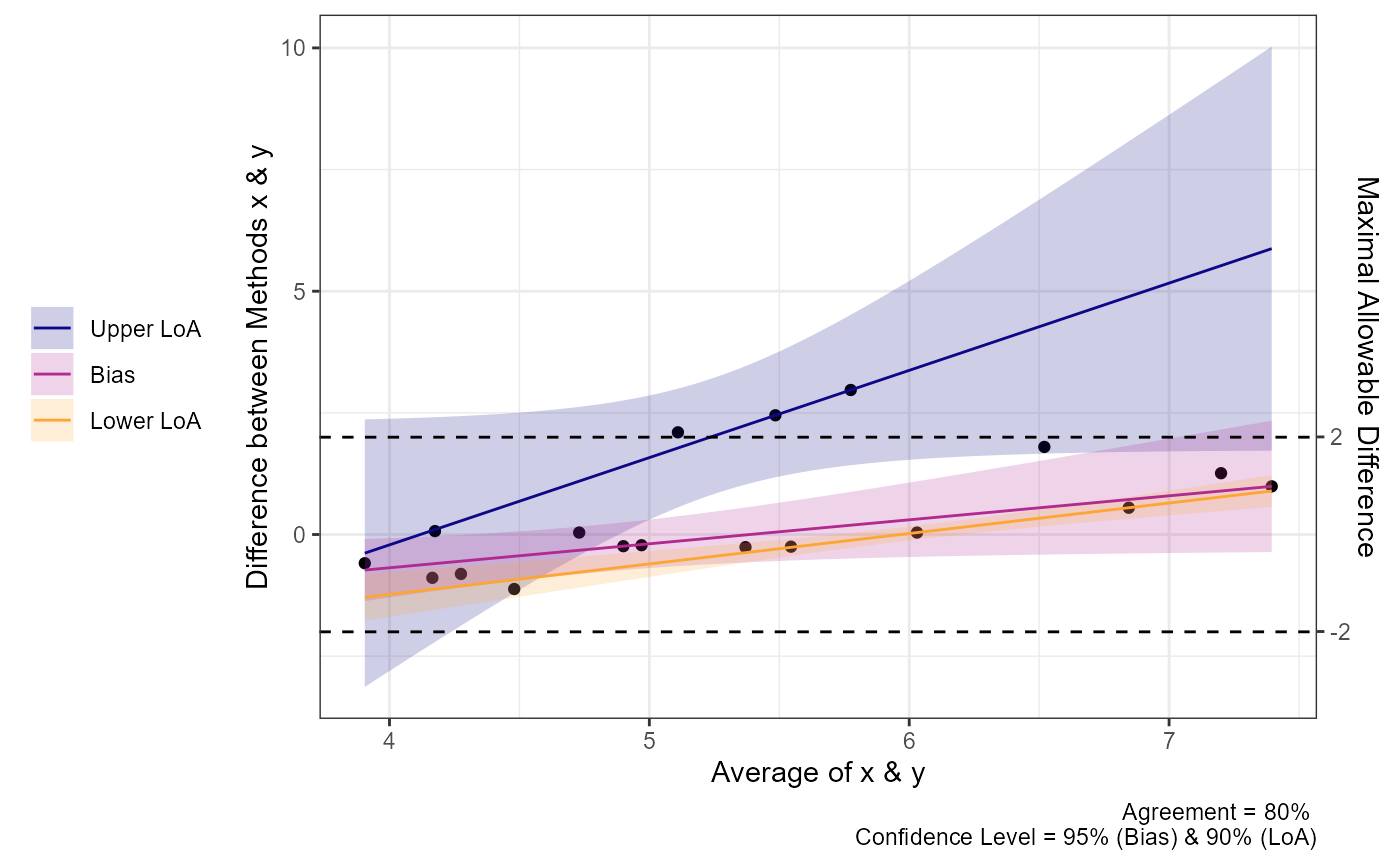
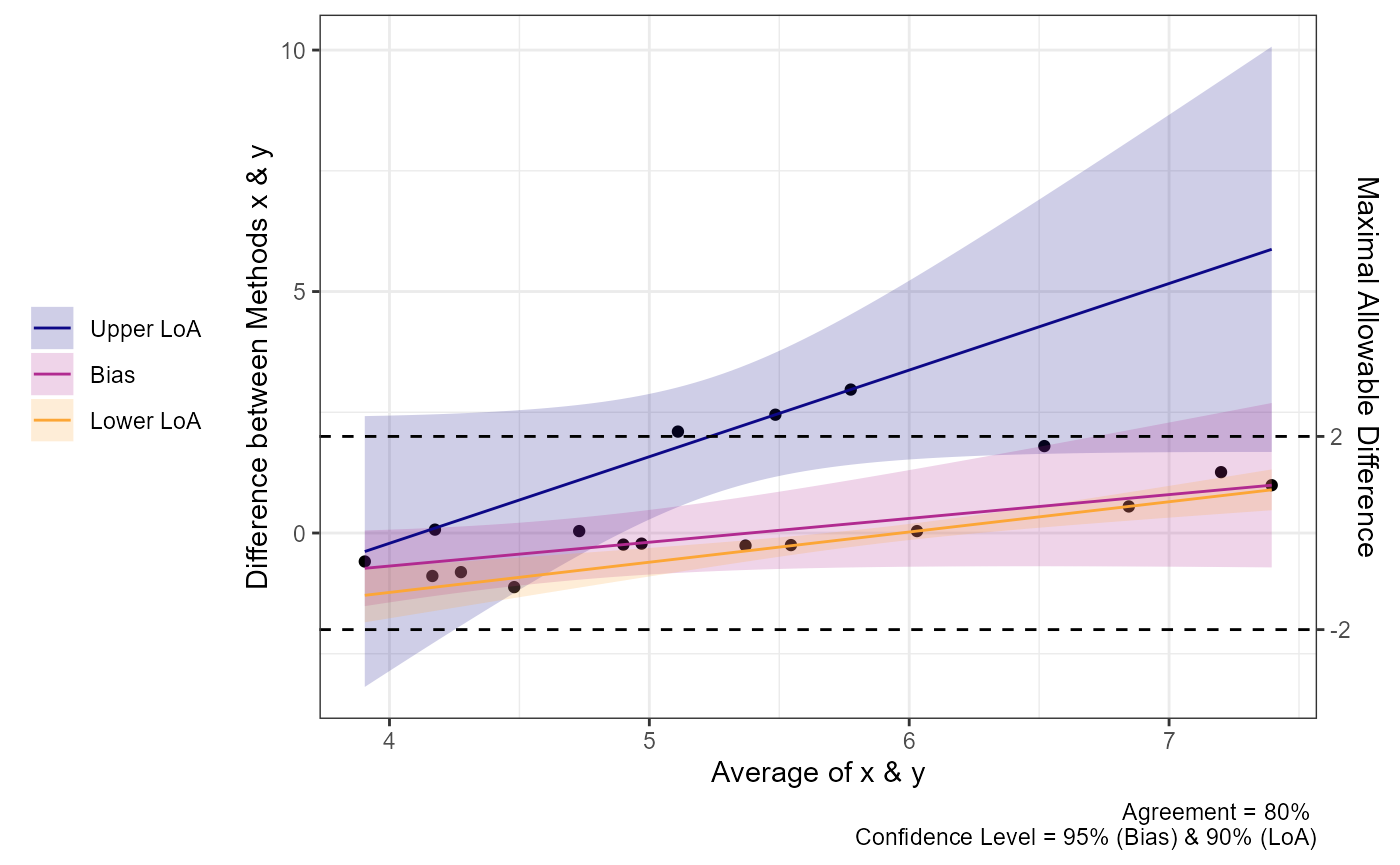
Updated documentation
Just need to update tests

diff --git a/docs/articles/reanalysis.html b/docs/articles/reanalysis.html
@@ -147,7 +147,8 @@ words, if we were to draw a line of identity on a graph and plot two
 measurements (X &amp; Y), the closer those points are to the line of
 identity the higher the CCC (and vice versa).</p>
 <div class="sourceCode" id="cb2"><pre class="downlit sourceCode r">
-<code class="sourceCode R"><span><span class="fu"><a href="https://ggplot2.tidyverse.org/reference/qplot.html" class="external-link">qplot</a></span><span class="op">(</span><span class="fl">1</span>,<span class="fl">1</span><span class="op">)</span> <span class="op">+</span> <span class="fu"><a href="https://ggplot2.tidyverse.org/reference/geom_abline.html" class="external-link">geom_abline</a></span><span class="op">(</span>intercept <span class="op">=</span> <span class="fl">0</span>, slope <span class="op">=</span> <span class="fl">1</span><span class="op">)</span></span></code></pre></div>
+<code class="sourceCode R"><span><span class="fu"><a href="https://ggplot2.tidyverse.org/reference/qplot.html" class="external-link">qplot</a></span><span class="op">(</span><span class="fl">1</span>,<span class="fl">1</span><span class="op">)</span> <span class="op">+</span> <span class="fu"><a href="https://ggplot2.tidyverse.org/reference/geom_abline.html" class="external-link">geom_abline</a></span><span class="op">(</span>intercept <span class="op">=</span> <span class="fl">0</span>, slope <span class="op">=</span> <span class="fl">1</span><span class="op">)</span></span>
+<span><span class="co">#&gt; Warning: `qplot()` was deprecated in ggplot2 3.4.0.</span></span></code></pre></div>
 <div class="figure">
 <img src="reanalysis_files/figure-html/unnamed-chunk-2-1.png" alt="Example of the Line of Identity" width="700"><p class="caption">
 Example of the Line of Identity
@@ -165,6 +166,8 @@ plot we can see there is clear bias in the raw post exercise values
 (higher in the PM), but even when “correcting for baseline differences”
 by calculating the differences scores we can see a higher degree of
 disagreement between the two conditions.</p>
+<pre><code><span><span class="co">#&gt; Warning: Using `size` aesthetic for lines was deprecated in ggplot2 3.4.0.</span></span>
+<span><span class="co">#&gt; <span style="color: #00BBBB;">ℹ</span> Please use `linewidth` instead.</span></span></code></pre>
 <div class="figure">
 <img src="reanalysis_files/figure-html/pltsrec-1.png" alt="Concordance Plots of Rectal Temperature" width="816"><p class="caption">
 Concordance Plots of Rectal Temperature
@@ -180,7 +183,7 @@ Concordance Plots of Rectal Temperature
 <div class="section level2">
 <h2 id="esophageal-temperature">Esophageal Temperature<a class="anchor" aria-label="anchor" href="#esophageal-temperature"></a>
 </h2>
-<pre><code><span><span class="co">#&gt; Warning: Removed 3 row(s) containing missing values (geom_path).</span></span></code></pre>
+<pre><code><span><span class="co">#&gt; Warning: Removed 3 rows containing missing values (`geom_line()`).</span></span></code></pre>
 <div class="figure">
 <img src="reanalysis_files/figure-html/pltseso-1.png" alt="Concordance Plots of Esophageal Temperature" width="816"><p class="caption">
 Concordance Plots of Esophageal Temperature
@@ -217,7 +220,7 @@ specify the specifics of the conditions for how the limits are
 calculated. For this specific analysis I decided to calculate 95% limits
 of agreement with 95% confidence intervals, and I will use percentile
 bootstrap confidence intervals.</p>
-<div class="sourceCode" id="cb4"><pre class="downlit sourceCode r">
+<div class="sourceCode" id="cb5"><pre class="downlit sourceCode r">
 <code class="sourceCode R"><span><span class="va">rec.post_loa</span> <span class="op">=</span> <span class="fu">SimplyAgree</span><span class="fu">::</span><span class="fu"><a href="../reference/loa_lme.html">loa_lme</a></span><span class="op">(</span>diff <span class="op">=</span> <span class="st">"diff"</span>,</span>
 <span>                                    condition <span class="op">=</span> <span class="st">"trial_condition"</span>,</span>
 <span>                                    id <span class="op">=</span> <span class="st">"id"</span>,</span>
@@ -230,7 +233,7 @@ bootstrap confidence intervals.</p>
 <p>When we create a table of the limits of agreement (LoA), at least for
 Trec post exercise, are providing the same conclusion (poor
 agreement).</p>
-<div class="sourceCode" id="cb5"><pre class="downlit sourceCode r">
+<div class="sourceCode" id="cb6"><pre class="downlit sourceCode r">
 <code class="sourceCode R"><span><span class="fu">knitr</span><span class="fu">::</span><span class="fu"><a href="https://rdrr.io/pkg/knitr/man/kable.html" class="external-link">kable</a></span><span class="op">(</span><span class="va">rec.post_loa</span><span class="op">$</span><span class="va">loa</span>,</span>
 <span>             caption <span class="op">=</span> <span class="st">"LoA: Trec Post Exercise"</span><span class="op">)</span></span></code></pre></div>
 <table class="table">
@@ -339,7 +342,7 @@ agreement).</p>
 </table>
 <p>Furthermore, we can visualize the results with a typical Bland-Altman
 plot of the LoA.</p>
-<div class="sourceCode" id="cb6"><pre class="downlit sourceCode r">
+<div class="sourceCode" id="cb7"><pre class="downlit sourceCode r">
 <code class="sourceCode R"><span><span class="fu"><a href="https://rdrr.io/r/graphics/plot.default.html" class="external-link">plot</a></span><span class="op">(</span><span class="va">rec.post_loa</span><span class="op">)</span></span></code></pre></div>
 <div class="figure">
 <img src="reanalysis_files/figure-html/unnamed-chunk-6-1.png" alt="Limits of Agreement for Trec Post Exercise" width="672"><p class="caption">
@@ -350,7 +353,7 @@ Limits of Agreement for Trec Post Exercise
 much closer agreement (maybe even acceptable agreement) when we look at
 LoA. However, we cannot say that the average difference would be less
 than 0.25 which may not be acceptable for some researchers.</p>
-<div class="sourceCode" id="cb7"><pre class="downlit sourceCode r">
+<div class="sourceCode" id="cb8"><pre class="downlit sourceCode r">
 <code class="sourceCode R"><span><span class="fu">knitr</span><span class="fu">::</span><span class="fu"><a href="https://rdrr.io/pkg/knitr/man/kable.html" class="external-link">kable</a></span><span class="op">(</span><span class="va">rec.delta_loa</span><span class="op">$</span><span class="va">loa</span>,</span>
 <span>             caption <span class="op">=</span> <span class="st">"LoA: Delta Trec"</span><span class="op">)</span></span></code></pre></div>
 <table class="table">
@@ -457,7 +460,7 @@ than 0.25 which may not be acceptable for some researchers.</p>
 </tr>
 </tbody>
 </table>
-<div class="sourceCode" id="cb8"><pre class="downlit sourceCode r">
+<div class="sourceCode" id="cb9"><pre class="downlit sourceCode r">
 <code class="sourceCode R"><span><span class="fu"><a href="https://rdrr.io/r/graphics/plot.default.html" class="external-link">plot</a></span><span class="op">(</span><span class="va">rec.delta_loa</span><span class="op">)</span></span></code></pre></div>
 <div class="figure">
 <img src="reanalysis_files/figure-html/unnamed-chunk-8-1.png" alt="Limits of Agreement for Delta Trec" width="672"><p class="caption">
@@ -472,7 +475,7 @@ Limits of Agreement for Delta Trec
 results are fairly similar, and while there is better agreement on the
 delta (change scores), it is still fairly difficult to determine that
 there is “good” agreement between the AM and PM measurements.</p>
-<div class="sourceCode" id="cb9"><pre class="downlit sourceCode r">
+<div class="sourceCode" id="cb10"><pre class="downlit sourceCode r">
 <code class="sourceCode R"><span><span class="va">eso.post_loa</span> <span class="op">=</span> <span class="fu">SimplyAgree</span><span class="fu">::</span><span class="fu"><a href="../reference/loa_mixed.html">loa_mixed</a></span><span class="op">(</span>diff <span class="op">=</span> <span class="st">"diff"</span>,</span>
 <span>                                     condition <span class="op">=</span> <span class="st">"trial_condition"</span>,</span>
 <span>                                     id <span class="op">=</span> <span class="st">"id"</span>,</span>
@@ -481,7 +484,7 @@ there is “good” agreement between the AM and PM measurements.</p>
 <span>                                     agree.level <span class="op">=</span> <span class="fl">.95</span>,</span>
 <span>                                     replicates <span class="op">=</span> <span class="fl">199</span>,</span>
 <span>                                     type <span class="op">=</span> <span class="st">"bca"</span><span class="op">)</span></span></code></pre></div>
-<div class="sourceCode" id="cb10"><pre class="downlit sourceCode r">
+<div class="sourceCode" id="cb11"><pre class="downlit sourceCode r">
 <code class="sourceCode R"><span><span class="fu">knitr</span><span class="fu">::</span><span class="fu"><a href="https://rdrr.io/pkg/knitr/man/kable.html" class="external-link">kable</a></span><span class="op">(</span><span class="va">eso.post_loa</span><span class="op">$</span><span class="va">loa</span>,</span>
 <span>             caption <span class="op">=</span> <span class="st">"LoA: Teso Post Exercise"</span><span class="op">)</span></span></code></pre></div>
 <table class="table">
@@ -588,14 +591,14 @@ there is “good” agreement between the AM and PM measurements.</p>
 </tr>
 </tbody>
 </table>
-<div class="sourceCode" id="cb11"><pre class="downlit sourceCode r">
+<div class="sourceCode" id="cb12"><pre class="downlit sourceCode r">
 <code class="sourceCode R"><span><span class="fu"><a href="https://rdrr.io/r/graphics/plot.default.html" class="external-link">plot</a></span><span class="op">(</span><span class="va">eso.post_loa</span><span class="op">)</span></span></code></pre></div>
 <div class="figure">
 <img src="reanalysis_files/figure-html/unnamed-chunk-11-1.png" alt="Limits of Agreement for Teso Post Exercise" width="672"><p class="caption">
 Limits of Agreement for Teso Post Exercise
 </p>
 </div>
-<div class="sourceCode" id="cb12"><pre class="downlit sourceCode r">
+<div class="sourceCode" id="cb13"><pre class="downlit sourceCode r">
 <code class="sourceCode R"><span><span class="fu">knitr</span><span class="fu">::</span><span class="fu"><a href="https://rdrr.io/pkg/knitr/man/kable.html" class="external-link">kable</a></span><span class="op">(</span><span class="va">eso.delta_loa</span><span class="op">$</span><span class="va">loa</span>,</span>
 <span>             caption <span class="op">=</span> <span class="st">"LoA: Delta Teso"</span><span class="op">)</span></span></code></pre></div>
 <table class="table">
@@ -702,7 +705,7 @@ Limits of Agreement for Teso Post Exercise
 </tr>
 </tbody>
 </table>
-<div class="sourceCode" id="cb13"><pre class="downlit sourceCode r">
+<div class="sourceCode" id="cb14"><pre class="downlit sourceCode r">
 <code class="sourceCode R"><span><span class="fu"><a href="https://rdrr.io/r/graphics/plot.default.html" class="external-link">plot</a></span><span class="op">(</span><span class="va">eso.delta_loa</span><span class="op">)</span></span></code></pre></div>
 <div class="figure">
 <img src="reanalysis_files/figure-html/unnamed-chunk-13-1.png" alt="Limits of Agreement for Delta Teso" width="672"><p class="caption">

diff --git a/docs/reference/reli_stats.html b/docs/reference/reli_stats.html
@@ -76,7 +76,7 @@
 <span>  cv_calc <span class="op">=</span> <span class="fu"><a href="https://rdrr.io/r/base/c.html" class="external-link">c</a></span><span class="op">(</span><span class="st">"MSE"</span>, <span class="st">"residuals"</span>, <span class="st">"SEM"</span><span class="op">)</span>,</span>
 <span>  conf.level <span class="op">=</span> <span class="fl">0.95</span>,</span>
 <span>  other_ci <span class="op">=</span> <span class="cn">FALSE</span>,</span>
-<span>  type <span class="op">=</span> <span class="fu"><a href="https://rdrr.io/r/base/c.html" class="external-link">c</a></span><span class="op">(</span><span class="st">"perc"</span>, <span class="st">"norm"</span>, <span class="st">"basic"</span><span class="op">)</span>,</span>
+<span>  type <span class="op">=</span> <span class="fu"><a href="https://rdrr.io/r/base/c.html" class="external-link">c</a></span><span class="op">(</span><span class="st">"chisq"</span>, <span class="st">"perc"</span>, <span class="st">"norm"</span>, <span class="st">"basic"</span><span class="op">)</span>,</span>
 <span>  replicates <span class="op">=</span> <span class="fl">1999</span></span>
 <span><span class="op">)</span></span>
 <span></span>
@@ -90,7 +90,7 @@
 <span>  cv_calc <span class="op">=</span> <span class="fu"><a href="https://rdrr.io/r/base/c.html" class="external-link">c</a></span><span class="op">(</span><span class="st">"MSE"</span>, <span class="st">"residuals"</span>, <span class="st">"SEM"</span><span class="op">)</span>,</span>
 <span>  conf.level <span class="op">=</span> <span class="fl">0.95</span>,</span>
 <span>  other_ci <span class="op">=</span> <span class="cn">FALSE</span>,</span>
-<span>  type <span class="op">=</span> <span class="st">"perc"</span>,</span>
+<span>  type <span class="op">=</span> <span class="fu"><a href="https://rdrr.io/r/base/c.html" class="external-link">c</a></span><span class="op">(</span><span class="st">"chisq"</span>, <span class="st">"perc"</span>, <span class="st">"norm"</span>, <span class="st">"basic"</span><span class="op">)</span>,</span>
 <span>  replicates <span class="op">=</span> <span class="fl">1999</span></span>
 <span><span class="op">)</span></span></code></pre></div>
     </div>
@@ -196,6 +196,12 @@ If reli_aov is used then rows with missing observations (e.g., if a participant 
 <p>The CV calculation has 3 versions. The "MSE" uses the "mean squared error" from the linear mixed model used to calculate the ICCs.
 The "SEM" option instead uses the SEM calculation and expresses CV as a ratio of the SEM to the overall mean.
 The "residuals" option u uses the model residuals to calculate the root mean square error which is then divided by the grand mean.</p>
+<p>The CV, SEM, SEE, and SEP values can have confidence intervals produced if the other_ci argument is set to TRUE.
+For the CV, the default method (type = "chisq") is Vangal's modification of the McKay approximation.
+For the other measures, a simple chi-squared approximation is utilized (Hann &amp; Meeker, 1991).
+All other methods are bootstrapping based methods (see ?boot::boot).
+The reli_stats functions utilizes a parametric bootstrap while the reli_aov
+function utilizes an ordinary (non-parametric) bootstrap method.</p>
     </div>
     <div id="references">
     <h2>References</h2>
@@ -205,12 +211,15 @@ The "residuals" option u uses the model residuals to calculate the root mean squ
 <p>Weir, J. P. (2005). Quantifying test-retest reliability using the intraclass correlation coefficient and the SEM. The Journal of Strength &amp; Conditioning Research, 19(1), 231-240.</p>
 <p>Shrout, P.E. and Fleiss, J.L. (1976). Intraclass correlations: uses in assessing rater reliability. Psychological Bulletin, 86, 420-3428.</p>
 <p>McGraw, K. O. and Wong, S. P. (1996). Forming inferences about some intraclass correlation coefficients. Psychological Methods, 1, 30-46. See errata on page 390 of same volume.</p>
+<p>Hahn, G. J., &amp; Meeker, W. Q. (2011). Statistical intervals: a guide for practitioners (Vol. 92). John Wiley &amp; Sons. pp. 55-56.</p>
+<p>Vangel, M. G. (1996). Confidence intervals for a normal coefficient of variation. The American Statistician, 50(1), 21-26.</p>
     </div>
 
     <div id="ref-examples">
     <h2>Examples</h2>
     <div class="sourceCode"><pre class="sourceCode r"><code><span class="r-in"><span><span class="fu"><a href="https://rdrr.io/r/utils/data.html" class="external-link">data</a></span><span class="op">(</span><span class="st">'reps'</span><span class="op">)</span></span></span>
 <span class="r-in"><span><span class="fu">reli_stats</span><span class="op">(</span>data <span class="op">=</span> <span class="va">reps</span>, wide <span class="op">=</span> <span class="cn">TRUE</span>, col.names <span class="op">=</span> <span class="fu"><a href="https://rdrr.io/r/base/c.html" class="external-link">c</a></span><span class="op">(</span><span class="st">"x"</span>,<span class="st">"y"</span><span class="op">)</span><span class="op">)</span></span></span>
+<span class="r-msg co"><span class="r-pr">#&gt;</span> Only 2 items in data. It is recommended to use reli_aov instead of reli_stats.</span>
 <span class="r-out co"><span class="r-pr">#&gt;</span> </span>
 <span class="r-out co"><span class="r-pr">#&gt;</span> Coefficient of Variation (%):  15.8</span>
 <span class="r-out co"><span class="r-pr">#&gt;</span> Standard Error of Measurement (SEM):  0.863</span>

diff --git a/docs/articles/agreement_analysis.html b/docs/articles/agreement_analysis.html
@@ -89,7 +89,7 @@
                         <h4 data-toc-skip class="author">Aaron R.
 Caldwell</h4>
             
-            <h4 data-toc-skip class="date">Last Updated: 2022-12-14</h4>
+            <h4 data-toc-skip class="date">Last Updated: 2023-02-04</h4>
       
       
       <div class="hidden name"><code>agreement_analysis.Rmd</code></div>
@@ -640,8 +640,6 @@ are no longer symmetric around the bias estimate.</p>
 <span>              delta <span class="op">=</span> <span class="fl">2</span>,</span>
 <span>              prop_bias <span class="op">=</span> <span class="cn">FALSE</span>,</span>
 <span>              agree.level <span class="op">=</span> <span class="fl">.8</span><span class="op">)</span></span>
-<span><span class="co">#&gt; Warning in agree_np(x = "x", y = "y", data = reps, delta = 2, prop_bias =</span></span>
-<span><span class="co">#&gt; FALSE, : Evidence of proportional bias. Consider setting prop_bias to TRUE.</span></span>
 <span><span class="fu"><a href="https://rdrr.io/r/base/print.html" class="external-link">print</a></span><span class="op">(</span><span class="va">a1</span><span class="op">)</span></span>
 <span><span class="co">#&gt; Limit of Agreement = 80%</span></span>
 <span><span class="co">#&gt; Binomial proportions test and quantile regression for LoA</span></span>
@@ -652,9 +650,9 @@ are no longer symmetric around the bias estimate.</p>
 <span><span class="co">#&gt; </span></span>
 <span><span class="co">#&gt; ###- Quantile Limits of Agreement (LoA) -###</span></span>
 <span><span class="co">#&gt;           Estimate Lower CI Upper CI CI Level</span></span>
-<span><span class="co">#&gt; Lower LoA    -0.89   -1.333  -0.4469     0.90</span></span>
-<span><span class="co">#&gt; Bias          0.04   -0.572   0.6520     0.95</span></span>
-<span><span class="co">#&gt; Upper LoA     2.45    1.405   3.4953     0.90</span></span>
+<span><span class="co">#&gt; Lower LoA    -0.89  -1.3780  -0.4020     0.90</span></span>
+<span><span class="co">#&gt; Bias          0.04  -0.5714   0.6514     0.95</span></span>
+<span><span class="co">#&gt; Upper LoA     2.45   1.3859   3.5141     0.90</span></span>
 <span></span>
 <span><span class="fu"><a href="https://rdrr.io/r/graphics/plot.default.html" class="external-link">plot</a></span><span class="op">(</span><span class="va">a1</span><span class="op">)</span></span></code></pre></div>
 <p><img src="agreement_analysis_files/figure-html/unnamed-chunk-13-1.png" width="700"></p>
@@ -677,16 +675,16 @@ agreement does not.</p>
 <span><span class="co">#&gt; Hypothesis Test: don't reject h0</span></span>
 <span><span class="co">#&gt; </span></span>
 <span><span class="co">#&gt; ###- Quantile Limits of Agreement (LoA) -###</span></span>
-<span><span class="co">#&gt;                  Estimate Lower CI Upper CI CI Level</span></span>
-<span><span class="co">#&gt; Lower LoA @ 3.9  -1.28975  -1.7260 -0.85353     0.90</span></span>
-<span><span class="co">#&gt; Lower LoA @ 5.24 -0.45436  -0.6408 -0.26793     0.90</span></span>
-<span><span class="co">#&gt; Lower LoA @ 7.4   0.89417   0.5712  1.21717     0.90</span></span>
-<span><span class="co">#&gt; Bias @ 3.9       -0.73052  -1.4932  0.03214     0.95</span></span>
-<span><span class="co">#&gt; Bias @ 5.24      -0.07238  -0.6278  0.48298     0.95</span></span>
-<span><span class="co">#&gt; Bias @ 7.4        0.99000  -0.1227  2.10275     0.95</span></span>
-<span><span class="co">#&gt; Upper LoA @ 3.9  -0.38310  -2.9008  2.13461     0.90</span></span>
-<span><span class="co">#&gt; Upper LoA @ 5.24  2.01069   0.8340  3.18741     0.90</span></span>
-<span><span class="co">#&gt; Upper LoA @ 7.4   5.87483   2.2596  9.49009     0.90</span></span>
+<span><span class="co">#&gt;                  Estimate  Lower CI Upper CI CI Level</span></span>
+<span><span class="co">#&gt; Lower LoA @ 3.9  -1.28975 -1.728639  -0.8509     0.90</span></span>
+<span><span class="co">#&gt; Lower LoA @ 5.24 -0.45436 -0.646272  -0.2624     0.90</span></span>
+<span><span class="co">#&gt; Lower LoA @ 7.4   0.89417  0.590680   1.1977     0.90</span></span>
+<span><span class="co">#&gt; Bias @ 3.9       -0.73052 -1.337348  -0.1237     0.95</span></span>
+<span><span class="co">#&gt; Bias @ 5.24      -0.07238 -0.536225   0.3915     0.95</span></span>
+<span><span class="co">#&gt; Bias @ 7.4        0.99000  0.009203   1.9708     0.95</span></span>
+<span><span class="co">#&gt; Upper LoA @ 3.9  -0.38310 -2.658425   1.8922     0.90</span></span>
+<span><span class="co">#&gt; Upper LoA @ 5.24  2.01069  0.794552   3.2268     0.90</span></span>
+<span><span class="co">#&gt; Upper LoA @ 7.4   5.87483  2.396331   9.3533     0.90</span></span>
 <span></span>
 <span><span class="fu"><a href="https://rdrr.io/r/graphics/plot.default.html" class="external-link">plot</a></span><span class="op">(</span><span class="va">a1</span><span class="op">)</span></span></code></pre></div>
 <p><img src="agreement_analysis_files/figure-html/unnamed-chunk-14-1.png" width="700"></p>

diff --git a/docs/articles/reliability_analysis.html b/docs/articles/reliability_analysis.html
@@ -89,7 +89,7 @@
                         <h4 data-toc-skip class="author">Aaron R.
 Caldwell</h4>
             
-            <h4 data-toc-skip class="date">Last Updated: 2022-12-14</h4>
+            <h4 data-toc-skip class="date">Last Updated: 2023-02-04</h4>
       
       
       <div class="hidden name"><code>reliability_analysis.Rmd</code></div>
@@ -500,16 +500,55 @@ CV = \frac{\sqrt{\frac{\Sigma^{N}_{i=1}(y_i - \hat y_i)^2}{N_{obs}}}}{
 <div class="section level3">
 <h3 id="other-confidence-intervals">Other Confidence Intervals<a class="anchor" aria-label="anchor" href="#other-confidence-intervals"></a>
 </h3>
-<p>If the <code>other_ci</code> argument is set to TRUE then parametric
-bootstrapped confidence intervals (using) will be calculated for the CV,
-SEM, SEP, and SEE. The number of resamples can be set with the
-replicates argument (default is 1999; increase for greater accuracy or
-lower for greater speed). The reported confidence intervals are
-estimated using the percentile method <code>type = 'perc'</code>, the
-normal <code>type = 'norm'</code>, or basic methods
+<p>If the <code>other_ci</code> argument is set to TRUE then confidence
+intervals will be calculated for the CV, SEM, SEP, and SEE.</p>
+<div class="section level4">
+<h4 id="chi-square">Chi-square<a class="anchor" aria-label="anchor" href="#chi-square"></a>
+</h4>
+<p>The default method is <code>type = 'chisq</code>. This method
+utilizes the chi-square distribution to <em>approximate</em> confidence
+intervals for these measurements. The accuracy of these estimates is
+likely variable, and is probably poor for small samples.</p>
+<p>For the CV, the calculation is as follows:</p>
+<p><span class="math display">\[
+Lower \space CI =
+\frac{CV}{\sqrt{(\frac{\chi^2_{1-\alpha/2}}{df_{error}+1}-1) \cdot CV^2
+\cdot \frac{\chi^2_{1-\alpha/2}}{df_{error}}}}
+\]</span></p>
+<p><span class="math display">\[
+Upper \space CI =
+\frac{CV}{\sqrt{(\frac{\chi^2_{\alpha/2}}{df_{error}+1}-1) \cdot CV^2
+\cdot \frac{\chi^2_{\alpha/2}}{df_{error}}}}
+\]</span> For the variance based measures (s) the calculation is as
+follows:</p>
+<p><span class="math display">\[
+Lower \space CI = s \cdot \sqrt{\frac{df_{error}}{\chi^2_{1-\alpha/2}}}
+\]</span></p>
+<p><span class="math display">\[
+Upper \space CI = s \cdot \sqrt{\frac{df_{error}}{\chi^2_{\alpha/2}}}
+\]</span></p>
+</div>
+<div class="section level4">
+<h4 id="bootstrap">Bootstrap<a class="anchor" aria-label="anchor" href="#bootstrap"></a>
+</h4>
+<p>If type is not set to <code>chisq</code> then bootstrapping is
+performed.</p>
+<ol style="list-style-type: decimal">
+<li>
+<code>reli_aov</code> utilizes a non-parametric ordinary
+bootstrap.</li>
+<li>
+<code>reli_stats</code> utilizes a parametric bootstrap.</li>
+</ol>
+<p>The number of resamples can be set with the replicates argument
+(default is 1999; increase for greater accuracy or lower for greater
+speed). The reported confidence intervals are estimated using the
+percentile method <code>type = 'perc'</code>, the normal
+<code>type = 'norm'</code>, or basic methods
 <code>type = 'basic'</code>.</p>
 <p>To ensure reproducibility, please use <code><a href="https://rdrr.io/r/base/Random.html" class="external-link">set.seed()</a></code> when
 these confidence intervals are calculated.</p>
+</div>
 </div>
 </div>
 <div class="section level2">

diff --git a/docs/reference/agree_np.html b/docs/reference/agree_np.html
@@ -163,9 +163,9 @@
 <span class="r-out co"><span class="r-pr">#&gt;</span> </span>
 <span class="r-out co"><span class="r-pr">#&gt;</span> ###- Quantile Limits of Agreement (LoA) -###</span>
 <span class="r-out co"><span class="r-pr">#&gt;</span>           Estimate Lower CI Upper CI CI Level</span>
-<span class="r-out co"><span class="r-pr">#&gt;</span> Lower LoA    -1.12  -1.4272  -0.8128     0.90</span>
-<span class="r-out co"><span class="r-pr">#&gt;</span> Bias          0.04  -0.5676   0.6476     0.95</span>
-<span class="r-out co"><span class="r-pr">#&gt;</span> Upper LoA     2.97   2.1541   3.7859     0.90</span>
+<span class="r-out co"><span class="r-pr">#&gt;</span> Lower LoA    -1.12  -1.4608  -0.7792     0.90</span>
+<span class="r-out co"><span class="r-pr">#&gt;</span> Bias          0.04  -0.5875   0.6675     0.95</span>
+<span class="r-out co"><span class="r-pr">#&gt;</span> Upper LoA     2.97   2.1369   3.8031     0.90</span>
 <span class="r-out co"><span class="r-pr">#&gt;</span> </span>
 </code></pre></div>
     </div>

diff --git a/docs/news/index.html b/docs/news/index.html
@@ -61,7 +61,12 @@
     </div>
 
     <div class="section level2">
-<h2 class="page-header" data-toc-text="0.1.2" id="simplyagree-012">SimplyAgree 0.1.2<a class="anchor" aria-label="anchor" href="#simplyagree-012"></a></h2>
+<h2 class="page-header" data-toc-text="0.1.3" id="simplyagree-013">SimplyAgree 0.1.3<a class="anchor" aria-label="anchor" href="#simplyagree-013"></a></h2>
+<ul><li>Added <code>chisq</code> type of confidence intervals for “Other” CIs for <code>reli_stats</code> and <code>reli_aov</code>
+</li>
+</ul></div>
+    <div class="section level2">
+<h2 class="page-header" data-toc-text="0.1.2" id="simplyagree-012">SimplyAgree 0.1.2<small>2022-12-14</small><a class="anchor" aria-label="anchor" href="#simplyagree-012"></a></h2>
 <ul><li>Fix to <code>agree_np</code> plot. (colors now align with order of LoA elements).</li>
 <li>Added <code>reli_aov</code> function for sums of squares approach.</li>
 </ul></div>

diff --git a/docs/articles/Deming.html b/docs/articles/Deming.html
@@ -89,7 +89,7 @@
                         <h4 data-toc-skip class="author">Aaron R.
 Caldwell</h4>
             
-            <h4 data-toc-skip class="date">Last Updated: 2022-12-14</h4>
+            <h4 data-toc-skip class="date">Last Updated: 2023-02-04</h4>
       
       
       <div class="hidden name"><code>Deming.Rmd</code></div>
